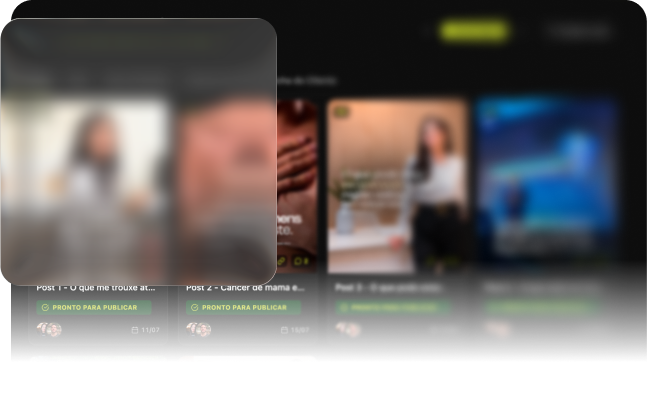
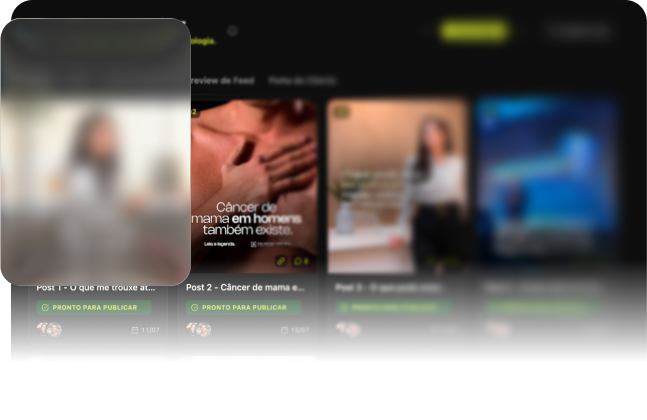
Tighten hero mobile gap, update Drive section screenshot asset
Grid gap between the floating hero mockup and the text block was too
wide on mobile stacking — reduced to gap-2 so the two feel like one
group while still keeping breathing room.

Changed region(s): [[0.2164, 0.031, 0.4328, 0.681]]

diff --git a/src/components/luzeria/SalesPage.tsx b/src/components/luzeria/SalesPage.tsx
@@ -101,7 +101,7 @@ export function SalesPage() {
 
       {/* Hero */}
       <section className="px-5 sm:px-10 max-w-[1200px] mx-auto pt-8 pb-16">
-        <div className="grid lg:grid-cols-2 gap-10 lg:gap-8 items-center">
+        <div className="grid lg:grid-cols-2 gap-2 lg:gap-8 items-center">
           <div className="order-2 lg:order-1">
             <div className="inline-flex items-center gap-2 border border-white/15 rounded-full px-4 py-1.5 text-xs font-bold uppercase tracking-wide mb-6">
               <Rocket size={13} style={{ color: LIME }} /> Gestão de conteúdo pra agência
